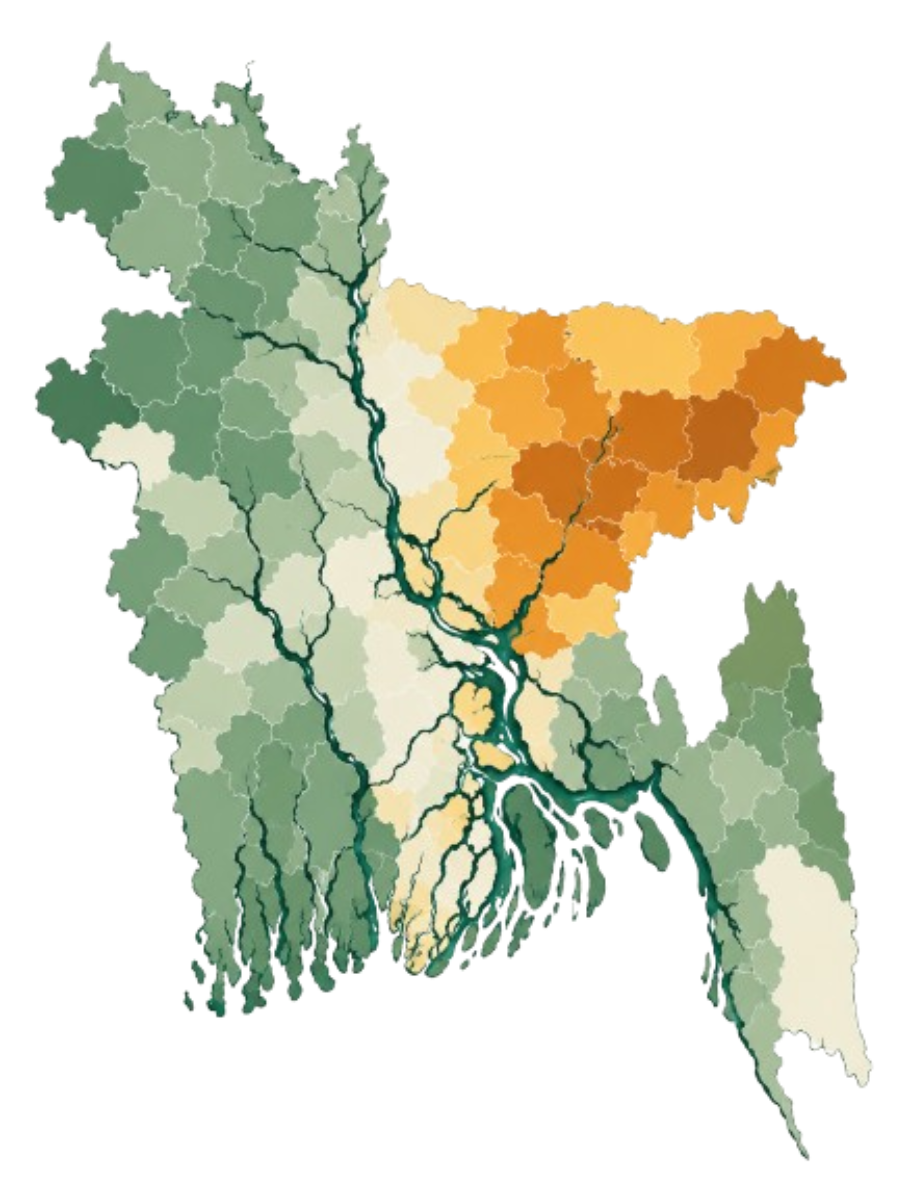
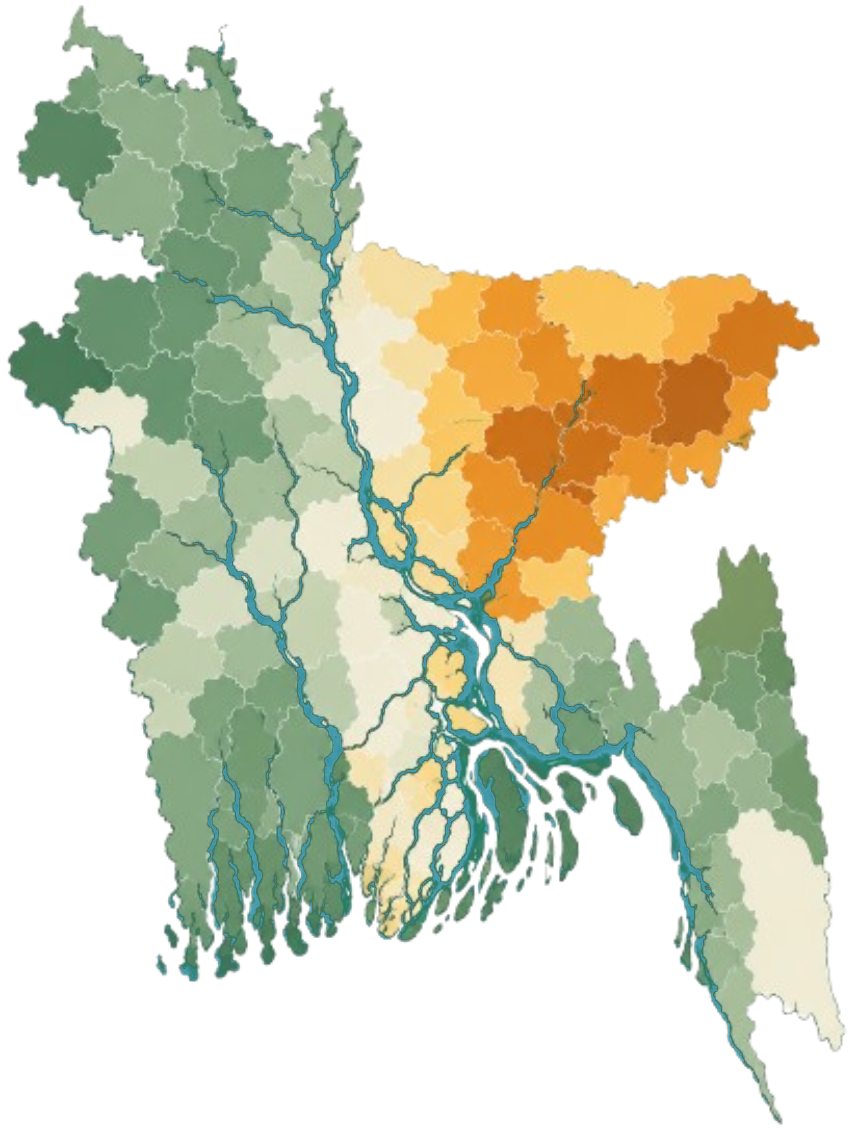
feat(frontend): remove top-right alert badge, render 4-tier flood risk level legend, and apply organic teal river water flow

Changed region(s): [[0.0, 0.0, 1.0, 0.9903]]

diff --git a/Frontend/src/app/page.tsx b/Frontend/src/app/page.tsx
@@ -296,41 +296,29 @@ function MapArtwork({
         className="w-full h-full object-contain relative z-10 select-none pointer-events-none"
       />
 
-      {/* Floating Active Flood Alert Badge (Matching Image 2 Top-Right) */}
+      {/* Flood Risk Level Legend on Bottom-Left (Matching Image 2) */}
       {!compact && (
-        <div className="absolute top-6 right-6 z-30 bg-white/95 backdrop-blur-md border border-[#E2E0D6] rounded-2xl p-3.5 shadow-lg flex flex-col gap-2 min-w-[140px]">
-          <div className="flex items-center gap-2">
-            <span className="w-6 h-6 rounded-lg bg-[#FEE2E2] flex items-center justify-center text-[#DC2626]">
-              <Waves size={14} className="animate-pulse" />
-            </span>
-            <span className="text-xs font-bold text-[#991B1B] tracking-wide uppercase">
-              {lang === "bn" ? "বন্যা সতর্কতা" : "Flood Alert"}
-            </span>
+        <div className="absolute bottom-5 left-5 z-30 bg-white/95 backdrop-blur-sm border border-[#E2E0D6] rounded-2xl p-4 shadow-md min-w-[130px]">
+          <div className="font-bold text-xs text-[#1F2937] mb-2.5">
+            {lang === "bn" ? "বন্যা ঝুঁকির মাত্রা" : "Flood Risk Level"}
           </div>
-          <div className="flex items-center gap-1.5 text-xs font-semibold text-[#1F2937]">
-            <MapPin size={13} className="text-[#DC2626]" />
-            <span>{lang === "bn" ? "সিলেট অববাহিকা" : "Sylhet Basin"}</span>
-          </div>
-        </div>
-      )}
-
-      {/* Legend on Bottom-Left (Clean and exact as in Image 1 & 2) */}
-      {!compact && (
-        <div className="absolute bottom-5 left-5 z-30 bg-[#FAF9F5]/95 backdrop-blur-sm border border-[#E2E0D6] rounded-xl px-4 py-3 shadow-md">
-          <div className="font-bold text-sm text-[#12241C] mb-2">
-            {t.risk_level}
-          </div>
-          <div className="flex items-center gap-1">
-            <span className="w-5 h-4 rounded-sm bg-[#2D6A4F]" />
-            <span className="w-5 h-4 rounded-sm bg-[#74A57F]" />
-            <span className="w-5 h-4 rounded-sm bg-[#B7CEB2]" />
-            <span className="w-5 h-4 rounded-sm bg-[#F3E3B2]" />
-            <span className="w-5 h-4 rounded-sm bg-[#F4A236]" />
-            <span className="w-5 h-4 rounded-sm bg-[#D96B1E]" />
-          </div>
-          <div className="flex items-center justify-between text-xs text-[#45514C] font-medium mt-1">
-            <span>{t.risk_low}</span>
-            <span>{t.risk_high}</span>
+          <div className="flex flex-col gap-2 text-xs font-medium text-[#374151]">
+            <div className="flex items-center gap-2">
+              <span className="w-3 h-3 rounded-full bg-[#5A9E75] inline-block shadow-sm" />
+              <span>{lang === "bn" ? "কম (Low)" : "Low"}</span>
+            </div>
+            <div className="flex items-center gap-2">
+              <span className="w-3 h-3 rounded-full bg-[#F5C242] inline-block shadow-sm" />
+              <span>{lang === "bn" ? "মাঝারি (Moderate)" : "Moderate"}</span>
+            </div>
+            <div className="flex items-center gap-2">
+              <span className="w-3 h-3 rounded-full bg-[#E88C30] inline-block shadow-sm" />
+              <span>{lang === "bn" ? "বেশি (High)" : "High"}</span>
+            </div>
+            <div className="flex items-center gap-2">
+              <span className="w-3 h-3 rounded-full bg-[#D9381E] inline-block shadow-sm" />
+              <span>{lang === "bn" ? "ভয়াবহ (Severe)" : "Severe"}</span>
+            </div>
           </div>
         </div>
       )}
